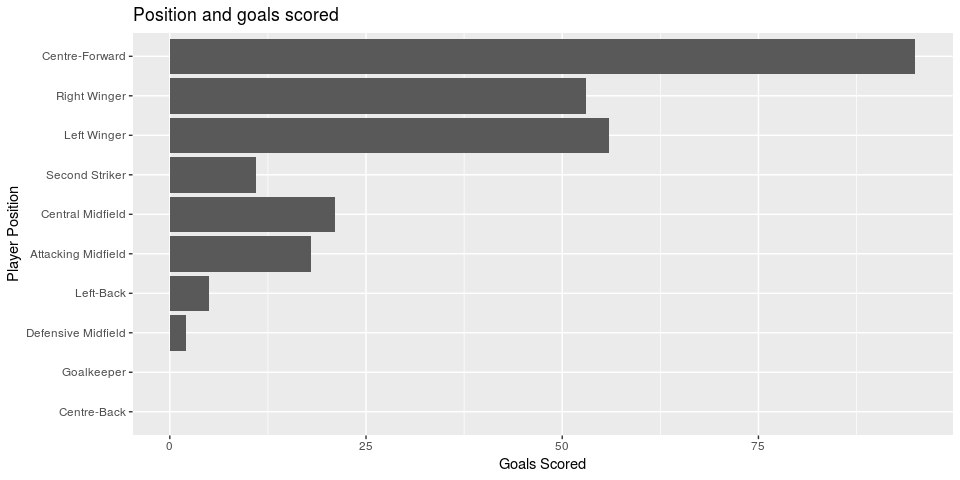
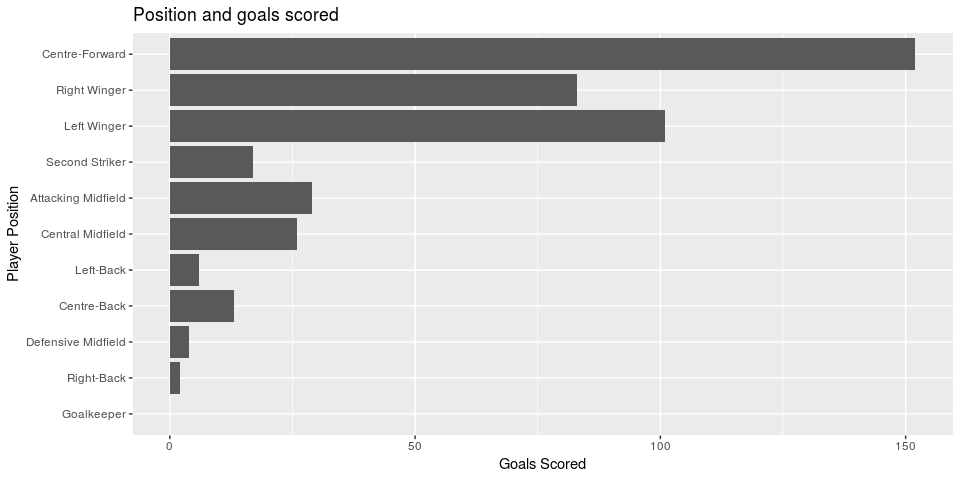
Extended data

diff --git a/proposal/proposal.md b/proposal/proposal.md
@@ -65,19 +65,20 @@ market value.
 
 ### Summary Statistics
 
-    ## # A tibble: 10 x 2
+    ## # A tibble: 11 x 2
     ##    position               n
     ##    <fct>              <int>
-    ##  1 Attacking Midfield     6
-    ##  2 Central Midfield       9
-    ##  3 Centre-Back            2
-    ##  4 Centre-Forward        10
-    ##  5 Defensive Midfield     3
-    ##  6 Goalkeeper             3
-    ##  7 Left Winger            8
-    ##  8 Left-Back              2
-    ##  9 Right Winger           5
-    ## 10 Second Striker         2
+    ##  1 Attacking Midfield     8
+    ##  2 Central Midfield      13
+    ##  3 Centre-Back           12
+    ##  4 Centre-Forward        18
+    ##  5 Defensive Midfield     4
+    ##  6 Goalkeeper             7
+    ##  7 Left Winger           16
+    ##  8 Left-Back              4
+    ##  9 Right Winger          11
+    ## 10 Right-Back             4
+    ## 11 Second Striker         3
 
 We can see that the most common position among the top 50 players is
 Centre-Forward. Most players are attackers or midfielders instead of
@@ -86,10 +87,10 @@ defenders.
     ## # A tibble: 4 x 2
     ##   age_range     n
     ##   <chr>     <int>
-    ## 1 21-25        19
-    ## 2 26-30        27
-    ## 3 above 30      3
-    ## 4 under 20      1
+    ## 1 21-25        41
+    ## 2 26-30        51
+    ## 3 above 30      4
+    ## 4 under 20      4
 
 We have tried to classify the players by age. Most players age between
 26 and 30. There are 3 players above 30 years old and there’s also one
@@ -97,7 +98,7 @@ player who is younger than
     20.
 
     ##   mean_matches sd_matches mean_goals sd_goals mean_assists sd_assists
-    ## 1        17.34    3.51446       5.22 4.514331         3.04   2.725241
+    ## 1        18.09   3.979988       4.33 4.124465         2.74   2.615494
 
 The average matches played during season 2018-2019 thus far by these top
 50 players is 17.34 and the standard deviation is 3.51. The average
@@ -106,15 +107,16 @@ goals scored during season 2018-2019 thus far by these top 50 players is
 season 2018-2019 thus far by these top 50 players is 3.04 and the
 standard deviation is 2.73.
 
-    ## # A tibble: 6 x 2
+    ## # A tibble: 7 x 2
     ##   yellow_cards     n
     ##          <int> <int>
-    ## 1            0    12
-    ## 2            1    15
-    ## 3            2     9
-    ## 4            3     4
-    ## 5            4     7
-    ## 6            5     3
+    ## 1            0    19
+    ## 2            1    27
+    ## 3            2    21
+    ## 4            3    13
+    ## 5            4    11
+    ## 6            5     7
+    ## 7            6     2
 
 We can see that until now, 38 among the 50 players have got yellow cards
 during season 2018-2019, and the maximum yellow card number is 5.
@@ -123,13 +125,16 @@ during season 2018-2019, and the maximum yellow card number is 5.
     ## 1     Kylian Mbappé         1
     ## 2 Cristiano Ronaldo         1
     ## 3   Marcus Rashford         1
+    ## 4     Douglas Costa         1
+    ## 5   Gonzalo Higuain         1
+    ## 6       Richarlison         1
 
 In season 2018-2019 thus far, there are 3 players who have already
 gotten a red card in a match, meaning they are to be expelled for the
 game: Kylian Mbappé, Cristiano Ronaldo, and Marcus Rashford.
 
     ##   max_value min_value
-    ## 1       180        65
+    ## 1       180        45
 
     ##   value_above_100m
     ## 1               13
@@ -164,20 +169,20 @@ Here we will glimpse the dataframe and view its dimensions. The
 dimensions of our data frame, with the addition of the age range
 variable, are 50 observations x 13 variables.
 
-    ## Observations: 50
+    ## Observations: 100
     ## Variables: 13
     ## $ name            <fct> Kylian Mbappé, Neymar, Lionel Messi, Mohamed S...
     ## $ position        <fct> Right Winger, Left Winger, Right Winger, Right...
     ## $ age             <int> 19, 26, 31, 26, 25, 27, 27, 26, 27, 25, 22, 25...
-    ## $ matches         <int> 18, 21, 13, 17, 21, 22, 5, 20, 20, 18, 13, 19,...
-    ## $ goals           <int> 15, 16, 14, 8, 11, 8, 0, 6, 10, 6, 2, 9, 9, 10...
+    ## $ matches         <int> 19, 22, 14, 18, 22, 24, 5, 20, 21, 19, 14, 20,...
+    ## $ goals           <int> 15, 16, 14, 9, 12, 8, 0, 6, 10, 7, 3, 9, 10, 1...
     ## $ own_goals       <int> 0, 0, 0, 0, 0, 0, 0, 0, 0, 0, 0, 0, 0, 0, 0, 0...
-    ## $ assists         <int> 8, 13, 6, 4, 4, 4, 1, 4, 5, 3, 1, 2, 6, 2, 7, ...
-    ## $ yellow_cards    <int> 4, 5, 1, 0, 4, 1, 1, 1, 1, 2, 0, 2, 0, 0, 2, 4...
+    ## $ assists         <int> 8, 13, 7, 4, 4, 5, 1, 4, 5, 3, 2, 2, 6, 2, 7, ...
+    ## $ yellow_cards    <int> 4, 5, 1, 0, 4, 3, 1, 1, 2, 2, 0, 2, 0, 0, 2, 5...
     ## $ red_cards       <int> 1, 0, 0, 0, 0, 0, 0, 0, 0, 0, 0, 0, 1, 0, 0, 0...
-    ## $ substituted_on  <int> 3, 1, 1, 1, 1, 0, 3, 4, 5, 3, 3, 3, 0, 2, 7, 3...
-    ## $ substituted_off <int> 2, 5, 1, 6, 4, 8, 2, 10, 6, 6, 3, 2, 0, 3, 5, ...
+    ## $ substituted_on  <int> 3, 1, 1, 1, 1, 0, 3, 4, 5, 4, 3, 3, 0, 3, 7, 3...
+    ## $ substituted_off <int> 3, 6, 1, 7, 4, 9, 2, 10, 6, 6, 4, 2, 0, 4, 6, ...
     ## $ market_value    <int> 180, 180, 180, 150, 150, 150, 150, 150, 150, 1...
     ## $ age_range       <chr> "under 20", "26-30", "above 30", "26-30", "21-...
 
-    ## [1] 50 13
+    ## [1] 100  13
